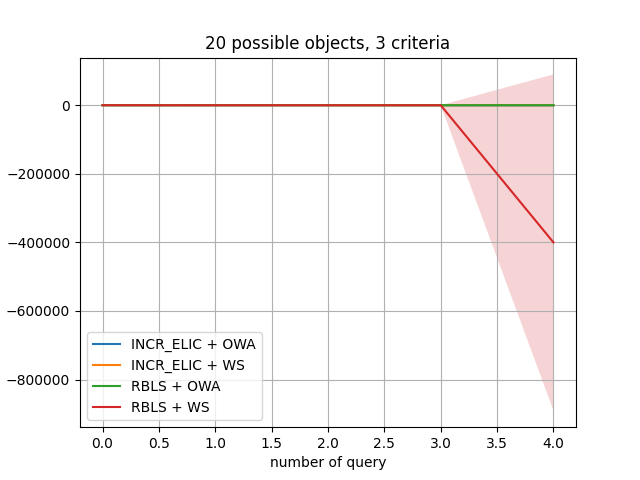
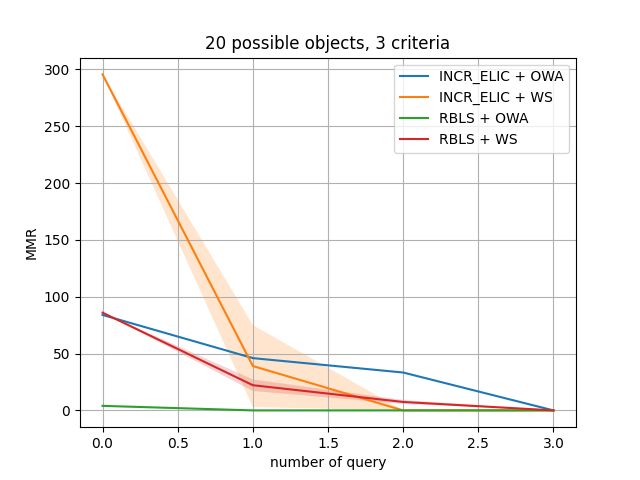
fixed bug results are beautiful

diff --git a/elicitation.py b/elicitation.py
@@ -11,7 +11,7 @@ class ELICIT():
 		self.P = []
 		self.F_P = []
 		self.mmr_per_query = []
-		sefl.nb_crit = nb_crit
+		self.nb_crit = nb_crit
 	def algorithm1(self):
 		while True:
 			x, y, valeur, w, z = self.CSS()
@@ -37,7 +37,8 @@ class ELICIT():
 	def CSS(self):
 
 		x, y, valeur, w = self.MMR()
-		self.mmr_per_query.append(valeur)
+		if valeur >= 0:
+			self.mmr_per_query.append(valeur)
 		if self.agreg == "OWA":
 			if (self.DM @ np.sort(x)) > (self.DM @ np.sort(y)):
 				z = "x"

diff --git a/rbls.py b/rbls.py
@@ -81,7 +81,8 @@ class RBLS():
 
 		x, y, valeur, w = self.MMR(X)
 
-		self.mmr_per_query.append(valeur)
+		if valeur >= 0:
+			self.mmr_per_query.append(valeur)
 		if self.agreg == "OWA":
 			if (self.DM @ np.sort(x)) > (self.DM @ np.sort(y)):
 				z = "x"

diff --git a/README.md b/README.md
@@ -1,11 +1,15 @@
-# LOCAL PARETO SEARCH (WIP)
-## TO DO
+# MADMC Project
 
-### Pour le tme
-- Obtenir des tableaux de résultats pour les différentes versions des algos avec les indicateurs et faire varier les tailles des instances.
-- Trouver un bon S pour PLS 3 (nombre d'indivs dans la pop initiale).
-- Étudier l'influence de L dans PLS 4 (la taille d'une solution du sous-problème du sac à dos dans la nouvelle fonction de voisinage).
+## Reproduce results (roughly 5 minutes run time)
 
-### Pour le projet
-- Passer les algos en multi-objs (ils sont en bi-objs pour le moment).
-- Utiliser une structure de donnees plus adaptee (QD-tree).
+```
+python3 get_data_elic_vs_rbls.py
+```
+
+## Generate an approximated pareto front using PLS on knapsack pbm
+
+```
+python3 study_multi_objs.py
+```
+
+Data is saved in data_multi_objs/ 
